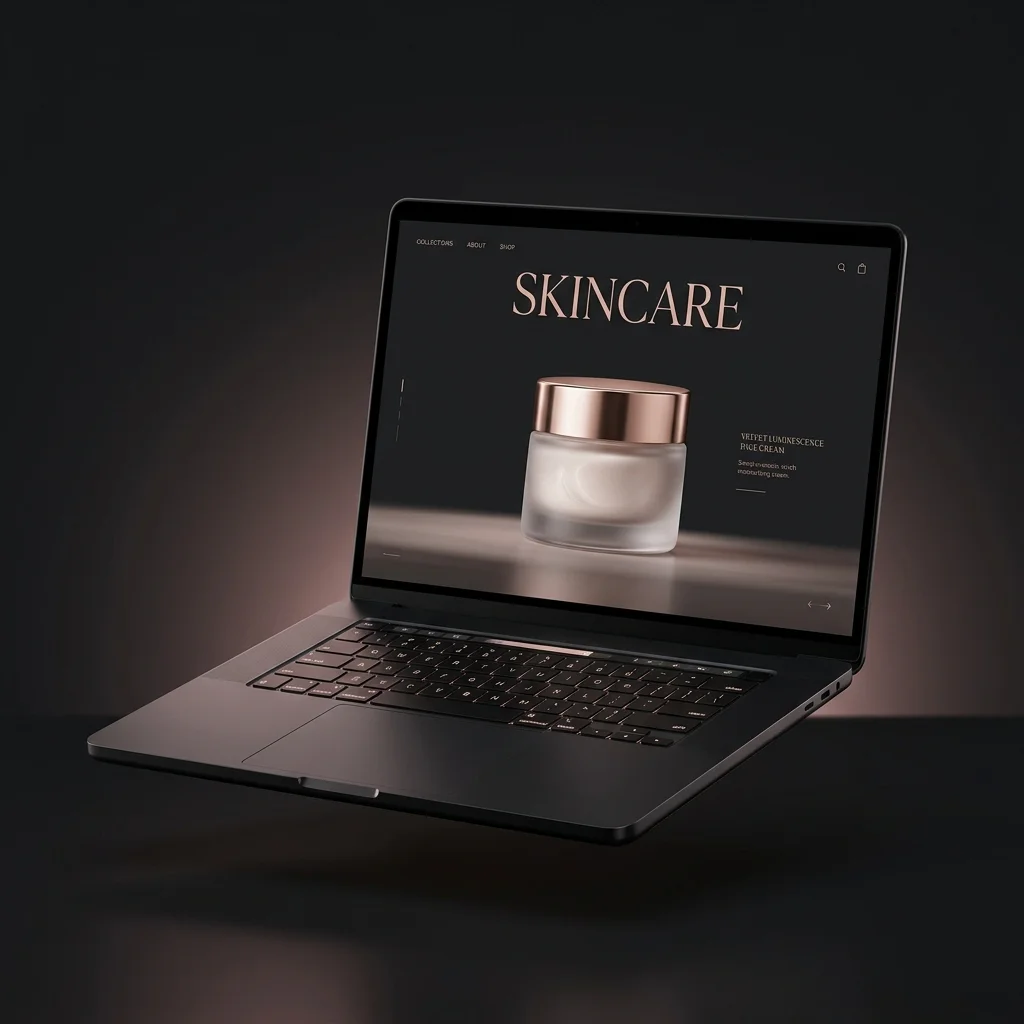
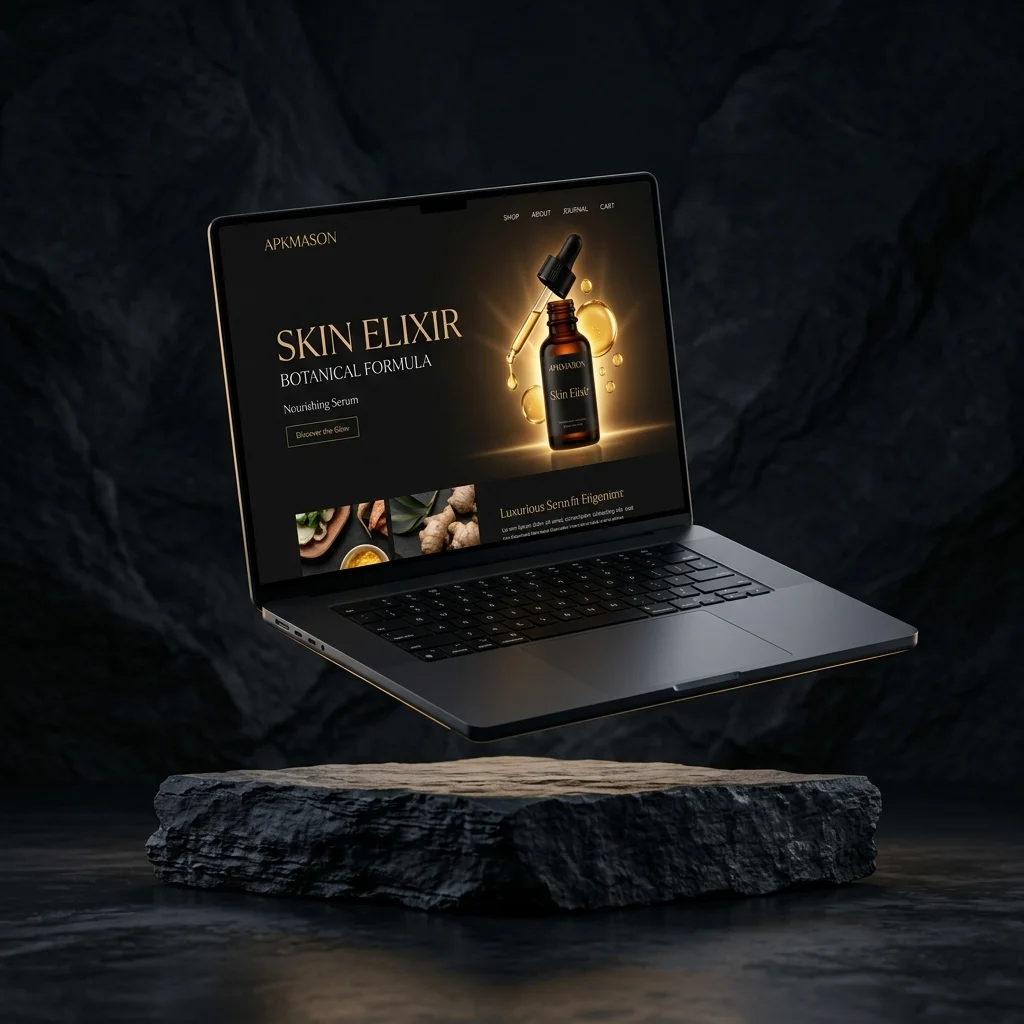
feat(skincare): update Skin Elixir project mockup, description, and link

diff --git a/src/data/projects.ts b/src/data/projects.ts
@@ -314,15 +314,15 @@ export const projects: Project[] = [
   },
   {
     id: 'skincare',
-    title: 'SKINCARE',
+    title: 'Skin Elixir',
     description: {
-      pl: 'Luksusowy koncept e-commerce łączący kinetyczną typografię z ruchem 3D.',
-      en: 'A luxury e-commerce concept combining kinetic typography with 3D motion.',
+      pl: 'Luksusowe doświadczenie produktowe kosmetyków premium sterowane scrollem i inercyjnym silnikiem ruchu.',
+      en: 'A luxury scroll-driven product experience for premium skincare powered by an inertia motion engine.',
     },
     image: '/skincare_mockup.webp',
-    link: 'https://apkmasondev.github.io/skincare_demo/',
-    tags: ['Web design', '3D'],
-    category: 'experiment',
+    link: 'https://apkmasondev.github.io/skincare/',
+    tags: ['Scroll-driven', 'Luxury UI', 'Motion'],
+    category: 'story',
     accent: '#e8bfb3',
   },
   {

diff --git a/CHANGELOG.md b/CHANGELOG.md
@@ -8,6 +8,7 @@ stosują [Semantic Versioning](https://semver.org/).
 
 ### Changed
 
+- zaktualizowano projekt „Skin Elixir” w portfolio o nową grafikę 3D, zaktualizowany adres URL oraz nowy opis doświadczenia kosmetycznego premium,
 - zoptymalizowano filmy hero pod słabsze CPU: zmniejszono rozdzielczość i
   bitrate przy zachowaniu GOP=1, grading przeniesiono z CSS do plików wideo,
   a elementowi `video` nadano wysoki priorytet pobierania,
